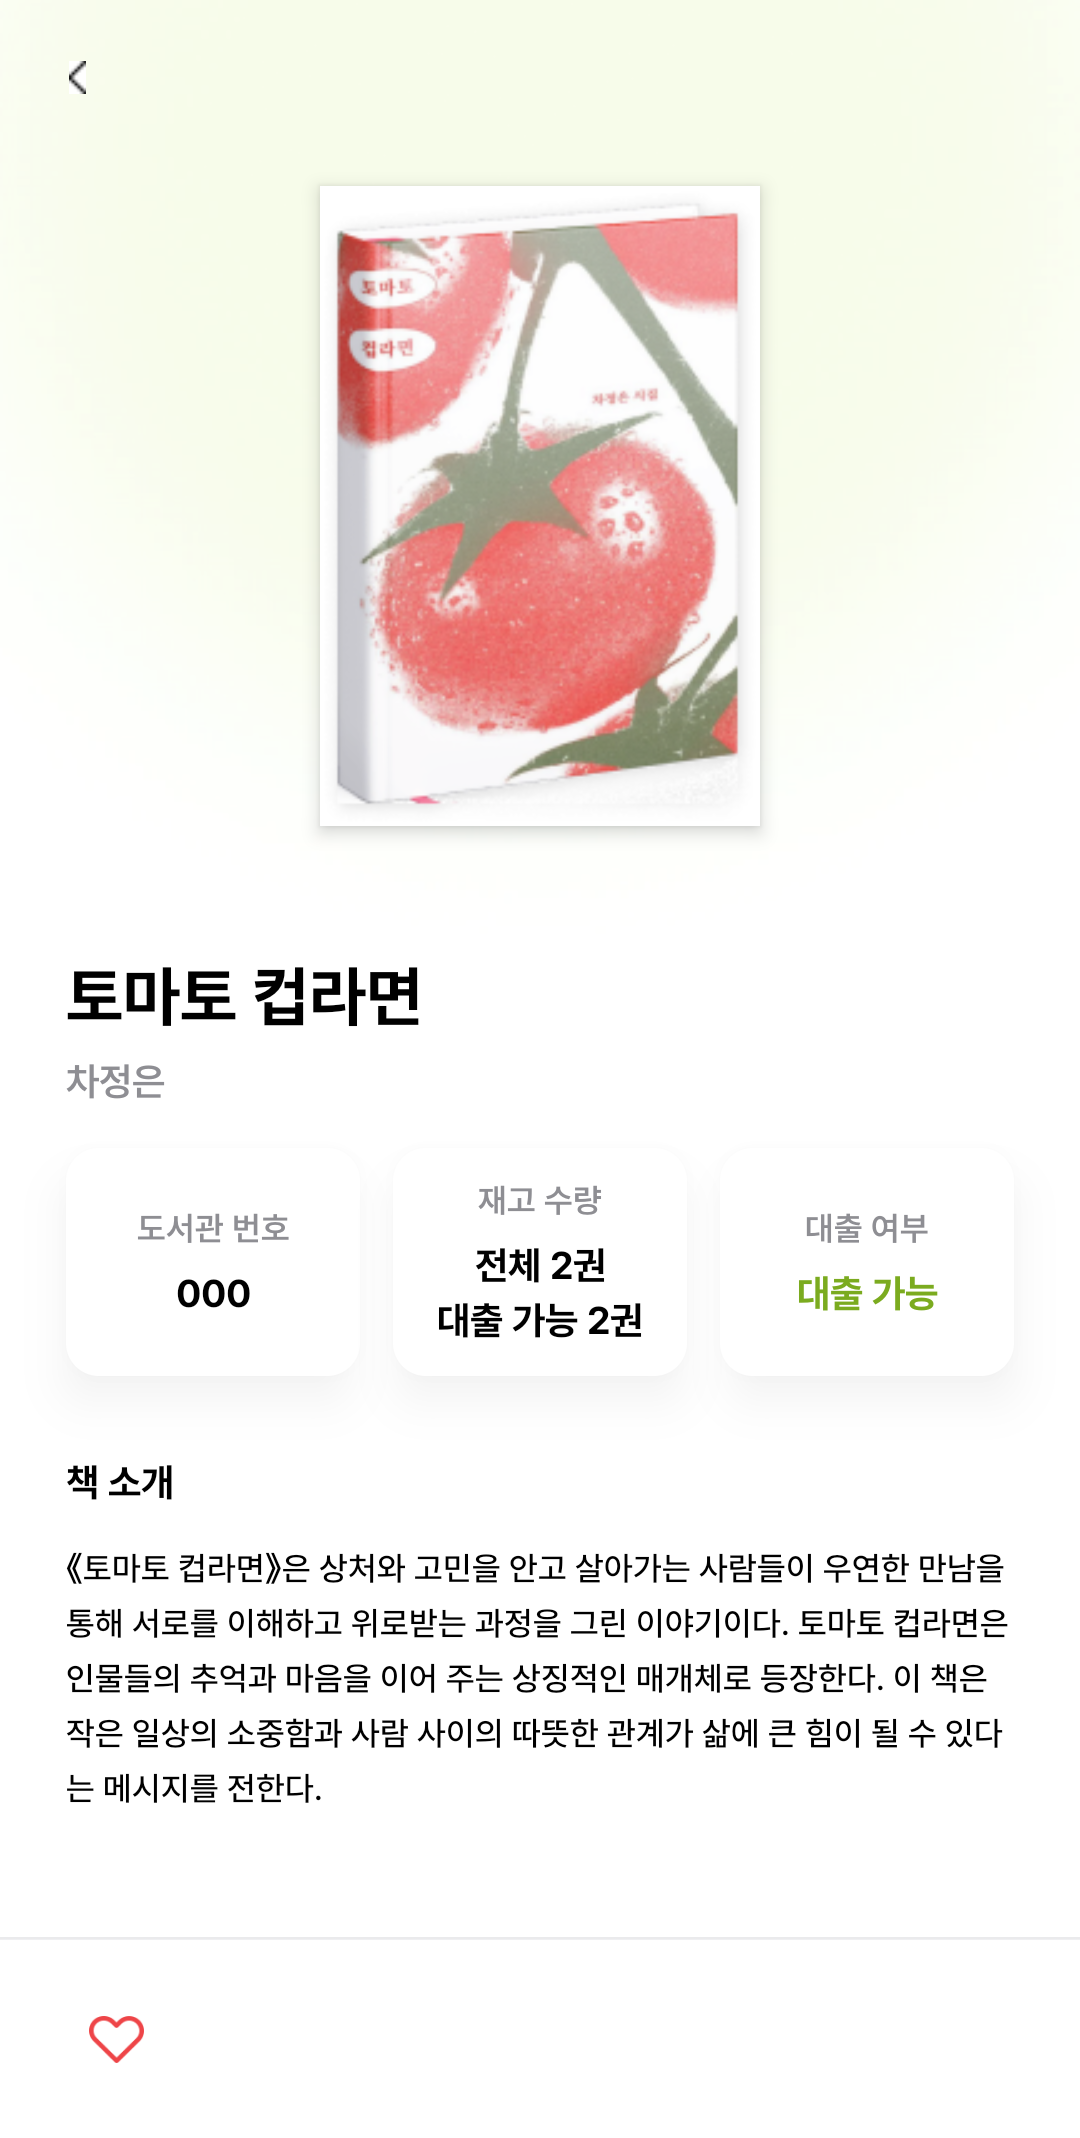
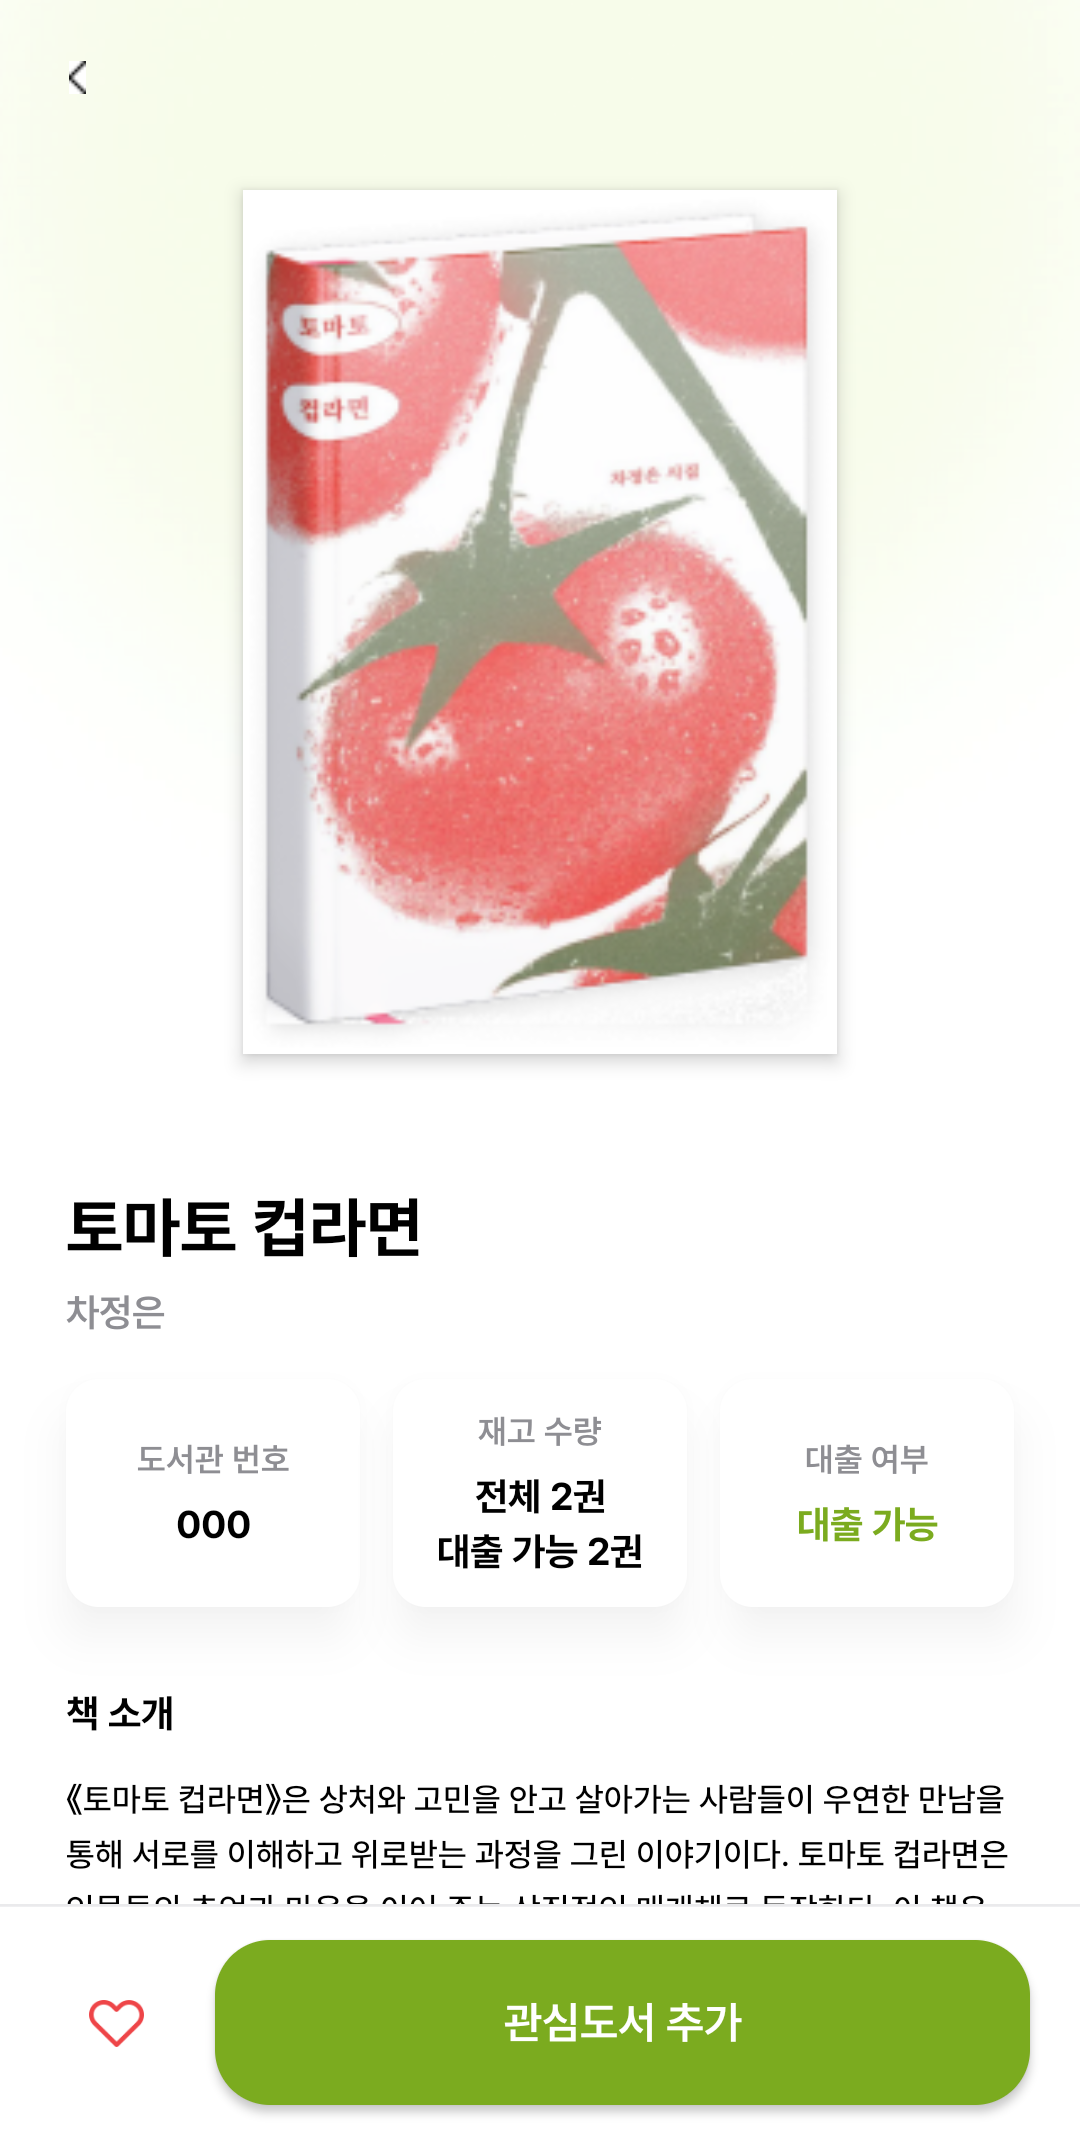
fix: [#144] 하트 옆 관심도서 추가·제외 버튼 연결

diff --git a/app/src/androidTest/java/com/teamnative/bookon/feature/book/presentation/detail/BookOnBookDetailVisualTest.kt b/app/src/androidTest/java/com/teamnative/bookon/feature/book/presentation/detail/BookOnBookDetailVisualTest.kt
@@ -9,6 +9,7 @@ import androidx.compose.runtime.mutableStateOf
 import androidx.compose.ui.Modifier
 import androidx.compose.ui.graphics.asAndroidBitmap
 import androidx.compose.ui.platform.LocalDensity
+import androidx.compose.ui.test.assertTextEquals
 import androidx.compose.ui.test.assertIsDisplayed
 import androidx.compose.ui.test.assertIsEnabled
 import androidx.compose.ui.test.assertIsNotEnabled
@@ -50,11 +51,14 @@ class BookOnBookDetailVisualTest {
         compose.onNodeWithTag("book_detail_loan").assertDoesNotExist()
         val coverBounds = compose.onNodeWithTag("book_detail_cover").fetchSemanticsNode().boundsInRoot
         assertEquals(2f / 3f, coverBounds.width / coverBounds.height, 0.01f)
+        compose.onNodeWithTag("book_detail_favorite_button").assertIsDisplayed().assertTextEquals("관심도서 추가")
+        val buttonBounds = compose.onNodeWithTag("book_detail_favorite_button").fetchSemanticsNode().boundsInRoot
         val actionBounds = compose.onNodeWithTag("book_detail_favorite").fetchSemanticsNode().boundsInRoot
         saveScreenshot("available")
         compose.onNodeWithTag("book_detail_content").performScrollToNode(hasText("책 소개"))
         compose.onNodeWithText("책 소개").assertIsDisplayed()
         compose.onNodeWithTag("book_detail_favorite").assertIsDisplayed()
+        assertEquals(buttonBounds, compose.onNodeWithTag("book_detail_favorite_button").fetchSemanticsNode().boundsInRoot)
         assertEquals(actionBounds, compose.onNodeWithTag("book_detail_favorite").fetchSemanticsNode().boundsInRoot)
     }
 
@@ -80,6 +84,8 @@ class BookOnBookDetailVisualTest {
         }
         compose.onNodeWithContentDescription("관심 도서에서 삭제").assertIsDisplayed().performClick()
         compose.runOnIdle { assertEquals(BookOnBookDetailScreenEvent.FavoriteClicked, event) }
+        compose.onNodeWithTag("book_detail_favorite_button").assertTextEquals("관심도서 제외").performClick()
+        compose.runOnIdle { assertEquals(BookOnBookDetailScreenEvent.FavoriteClicked, event) }
         saveScreenshot("favorite")
     }
 
@@ -87,14 +93,64 @@ class BookOnBookDetailVisualTest {
     fun pendingMutationCannotBeSubmitted() {
         render(content().copy(isFavoriteSubmitting = true))
         compose.onNodeWithTag("book_detail_favorite").assertIsNotEnabled()
+        compose.onNodeWithTag("book_detail_favorite_button").assertIsNotEnabled()
         compose.onNodeWithTag("book_detail_loan").assertDoesNotExist()
+    }
+
+    @Test
+    fun refreshDisablesBothFavoriteControls() {
+        compose.setContent {
+            BookOnTheme {
+                BookOnBookDetailScreen(
+                    state = BookOnBookDetailState(
+                        content = content(),
+                        isInitialLoading = false,
+                        isRefreshing = true,
+                    ),
+                    onEvent = {},
+                )
+            }
+        }
+        compose.onNodeWithTag("book_detail_favorite").assertIsNotEnabled()
+        compose.onNodeWithTag("book_detail_favorite_button").assertIsNotEnabled()
+    }
+
+    @Test
+    fun bothControlsReflectTheSameFavoriteState() {
+        val detailContent = mutableStateOf(content())
+        var favoriteClicks = 0
+        compose.setContent {
+            BookOnTheme {
+                BookOnBookDetailScreen(
+                    state = BookOnBookDetailState(content = detailContent.value, isInitialLoading = false),
+                    onEvent = { screenEvent ->
+                        if (screenEvent == BookOnBookDetailScreenEvent.FavoriteClicked) {
+                            favoriteClicks++
+                        }
+                    },
+                )
+            }
+        }
+        compose.onNodeWithTag("book_detail_favorite_button").assertTextEquals("관심도서 추가").performClick()
+        compose.runOnIdle {
+            assertEquals(1, favoriteClicks)
+            detailContent.value = detailContent.value.copy(isFavorite = true)
+        }
+        compose.onNodeWithContentDescription("관심 도서에서 삭제").assertIsDisplayed().performClick()
+        compose.onNodeWithTag("book_detail_favorite_button").assertTextEquals("관심도서 제외")
+        compose.runOnIdle {
+            assertEquals(2, favoriteClicks)
+            detailContent.value = detailContent.value.copy(isFavorite = false)
+        }
+        compose.onNodeWithContentDescription("관심 도서로 추가").assertIsDisplayed()
+        compose.onNodeWithTag("book_detail_favorite_button").assertTextEquals("관심도서 추가")
     }
 
     @Test
     fun missingDataAndLargeFontOnNarrowDarkScreenRemainReadable() {
         compose.setContent {
             val density = LocalDensity.current.density
-            CompositionLocalProvider(LocalDensity provides Density(density, 1.6f)) {
+            CompositionLocalProvider(LocalDensity provides Density(density, 2f)) {
                 BookOnTheme(themeMode = BookOnThemeMode.DARK) {
                     Box(modifier = Modifier.width(320.dp).fillMaxHeight()) {
                         BookOnBookDetailScreen(
@@ -118,6 +174,10 @@ class BookOnBookDetailVisualTest {
         compose.onNodeWithTag("book_detail_loan").assertDoesNotExist()
         compose.onNodeWithTag("book_detail_content").performScrollToNode(hasText("책 소개"))
         compose.onNodeWithText("책 소개가 없습니다.").assertIsDisplayed()
+        compose.onNodeWithTag("book_detail_favorite_button").assertIsDisplayed().assertTextEquals("관심도서 추가")
+        val heart = compose.onNodeWithTag("book_detail_favorite").fetchSemanticsNode().boundsInRoot
+        val button = compose.onNodeWithTag("book_detail_favorite_button").fetchSemanticsNode().boundsInRoot
+        assertTrue(heart.right <= button.left)
         saveScreenshot("dark-large-font")
     }
 

diff --git a/app/src/main/java/com/teamnative/bookon/feature/book/presentation/detail/view/component/BookOnBookDetailActions.kt b/app/src/main/java/com/teamnative/bookon/feature/book/presentation/detail/view/component/BookOnBookDetailActions.kt
@@ -2,6 +2,10 @@ package com.teamnative.bookon.feature.book.presentation.detail.view.component
 
 import androidx.compose.foundation.Image
 import androidx.compose.foundation.background
+import androidx.compose.foundation.layout.Arrangement
+import androidx.compose.foundation.layout.heightIn
+import androidx.compose.foundation.shape.RoundedCornerShape
+import androidx.compose.ui.Alignment
 import androidx.compose.foundation.layout.Column
 import androidx.compose.foundation.layout.Row
 import androidx.compose.foundation.layout.fillMaxWidth
@@ -24,6 +28,8 @@ import com.teamnative.bookon.R
 import com.teamnative.bookon.core.designsystem.theme.AppComponentSize
 import com.teamnative.bookon.core.designsystem.theme.AppRadius
 import com.teamnative.bookon.core.designsystem.theme.AppSpacing
+import com.teamnative.bookon.core.designsystem.theme.bookOnTypography
+import com.teamnative.bookon.core.ui.component.button.BookOnPrimaryButton
 import com.teamnative.bookon.feature.book.presentation.detail.viewmodel.BookOnBookDetailScreenUiState
 
 @Composable
@@ -51,6 +57,8 @@ fun BookOnBookDetailActions(
                     horizontal = AppSpacing.BookDetailFavoriteHorizontal,
                     vertical = AppSpacing.Item,
                 ),
+            horizontalArrangement = Arrangement.spacedBy(AppSpacing.Item),
+            verticalAlignment = Alignment.CenterVertically,
         ) {
             IconToggleButton(
                 checked = uiState.isFavorite,
@@ -89,6 +97,26 @@ fun BookOnBookDetailActions(
                     )
                 }
             }
+            BookOnPrimaryButton(
+                text = stringResource(
+                    if (uiState.isFavorite) {
+                        R.string.book_detail_favorite_remove
+                    } else {
+                        R.string.book_detail_favorite_add
+                    },
+                ),
+                onClick = onFavoriteClick,
+                modifier = Modifier
+                    .weight(1f)
+                    .heightIn(min = AppComponentSize.BookDetailActionMinHeight)
+                    .testTag("book_detail_favorite_button"),
+                enabled = !isPending,
+                loading = uiState.isFavoriteSubmitting,
+                containerColor = MaterialTheme.colorScheme.secondary,
+                shape = RoundedCornerShape(AppRadius.LargeCard),
+                textStyle = bookOnTypography.bookDetailAction,
+                fixedHeight = null,
+            )
         }
     }
 }

diff --git a/app/src/test/java/com/teamnative/bookon/feature/book/presentation/detail/BookOnBookDetailViewModelTest.kt b/app/src/test/java/com/teamnative/bookon/feature/book/presentation/detail/BookOnBookDetailViewModelTest.kt
@@ -95,6 +95,28 @@ class BookOnBookDetailViewModelTest {
     }
 
     @Test
+    fun `관심 등록과 제외는 서버 상태를 반영하고 제외 실패에는 등록을 유지한다`() = runTest {
+        val repository = DetailRepository()
+        val viewModel = createViewModel(repository)
+        viewModel.load(1)
+        advanceUntilIdle()
+        viewModel.toggleFavorite()
+        advanceUntilIdle()
+        assertTrue(viewModel.state.value.content!!.isFavorite)
+        repository.failMutation = true
+        viewModel.toggleFavorite()
+        advanceUntilIdle()
+        assertTrue(viewModel.state.value.content!!.isFavorite)
+        assertFalse(viewModel.state.value.content!!.isFavoriteSubmitting)
+        repository.failMutation = false
+        viewModel.toggleFavorite()
+        advanceUntilIdle()
+        assertFalse(viewModel.state.value.content!!.isFavorite)
+        assertFalse(viewModel.state.value.content!!.isFavoriteSubmitting)
+        assertEquals(3, repository.favoriteCalls)
+    }
+
+    @Test
     fun `다른 책 진입은 이전 조회를 취소하고 새 책만 표시한다`() = runTest {
         val repository = DetailRepository()
         repository.detailGate = CompletableDeferred()

diff --git a/docs/testing/book-detail-verification.md b/docs/testing/book-detail-verification.md
@@ -1,14 +1,16 @@
 # 책 상세 화면 디자인·동작 검증
 
-## 표지 크기 후속 변경
+## 관심 도서 버튼 후속 변경
 
-사용자 요청으로 상세 표지 최대 너비를 160dp에서 216dp로 35% 확대했다. 2:3 표지 기준 높이는 240dp에서 324dp가 되며 실제 이미지 비율과 작은 화면의 너비 제한은 유지한다. 이 한 줄 토큰 변경은 root 및 두 게시 작업트리에서 Kotlin 컴파일로 검증했다. 아래 캡처와 이전 UI 테스트는 확대 전 화면의 증거이며 이번 크기로 새 기기 캡처를 촬영하지 않았다.
+사용자 요청으로 하트 오른쪽에 기존 secondary 초록색 텍스트 버튼을 추가했다. 서버 상태에 따라 `관심도서 추가` / `관심도서 제외`를 표시하며 하트와 동일한 callback을 사용한다. 요청 중 또는 재조회 중 두 컨트롤을 함께 비활성화하고, 제출 시 로딩을 표시한다. 버튼은 가변 높이를 사용해 200% 글꼴에서도 텍스트를 표시한다. 상세 대출 기능은 추가하지 않았다.
+
+표지 최대 너비는 216dp(+35%)이며 2:3 표지는 324dp 높이다. 아래 캡처는 이 크기와 최종 관심 버튼을 포함해 API 34/API 37에서 새로 촬영했다.
 
 ## 최종 승인 동작
 
 - [대출 가능](https://www.figma.com/design/nJLeurKROi9jA3Pul9cdAK/Bookon?node-id=164-214), [대출 불가](https://www.figma.com/design/nJLeurKROi9jA3Pul9cdAK/Bookon?node-id=164-403), [관심 도서](https://www.figma.com/design/nJLeurKROi9jA3Pul9cdAK/Bookon?node-id=166-531) 실제 디자인 컨텍스트를 기준으로 구현했다.
 - 배경은 시스템 상태 영역까지 그린다. 상단 콘텐츠와 48dp 뒤로가기/관심 터치 영역은 시스템 inset을 유지한다.
-- 하단 고정 관심·대출 버튼을 제거하고 원본 빈/채운 하트로 관심 등록·해제를 표시한다. 이 변경은 상세 화면에 한정하며 다른 화면의 대출 기능과 공유 API/Domain은 유지한다.
+- 상세 대출 버튼을 제거하고 원본 빈/채운 하트와 초록색 등록/제외 텍스트 버튼으로 관심 상태를 표시한다. 이 변경은 상세 화면에 한정하며 다른 화면의 대출 기능과 공유 API/Domain은 유지한다.
 - 도서 ID 조회로 표지·제목·저자·도서관 번호·전체/가용 재고·대출 가능 여부·책 소개를 표시한다. 정보 누락은 --로 표시한다.
 - 표지 그림자는 고정 박스가 아니라 실제 표시된 이미지 경계에 맞춘다. 가로 표지·누락 URL·실패·URL 변경을 처리한다.
 
@@ -20,12 +22,12 @@
 
 ## 검증
 
-- root 단위 테스트 48개 및 컴파일·Lint 성공. 상세 UI 17개씩 API 34/API 37 성공(34개).
-- #151 격리 작업트리 단위 테스트 53개·컴파일·Lint·계측 Kotlin 컴파일 성공.
-- #161 통합 작업트리 단위 테스트 117개·컴파일·Lint·계측 APK 성공. 최종 상세 패키지 계측 19개씩 신규 격리 API 34/API 37 모두 성공(38개, 실패 0).
+- root 단위 테스트 49개 및 컴파일·Lint 성공. 상세 UI 19개씩 API 34/API 37 성공(38개).
+- #151 격리 작업트리 단위 테스트 54개·컴파일·Lint·계측 Kotlin 컴파일 성공.
+- #161 통합 작업트리 단위 테스트 118개·컴파일·Lint·계측 APK 성공. 이전 통합 상세 패키지 계측 19개씩 신규 격리 API 34/API 37 모두 성공(38개, 실패 0). 이번 버튼 UI는 root의 최종 상세 19개씩 성공 결과와 구분한다.
 - 조회 실패·기존 콘텐츠 보존·재시도·관심 변경 실패·중복 클릭·요청 중 재조회 보호·오래된 응답을 fake Repository로 검증했다.
 - 홈 callback과 검색·신간·도서실 실제 Route 복귀의 검색어·목록·스크롤·탭을 검증했다.
-- 실제 MainActivity에서 UiAutomation 물리 화면 캡처로 시스템 상태 영역 배경, 콘텐츠 inset, 하트 터치 영역을 검증했다. Window APPEARANCE_LIGHT_STATUS_BARS 및 시스템 UI idle을 함께 확인했다. 정상 글꼴의 신규 격리 AVD API 34/API 37에서 root 17개씩 모두 통과했다.
+- 실제 MainActivity에서 UiAutomation 물리 화면 캡처로 시스템 상태 영역 배경, 콘텐츠 inset, 하트 터치 영역을 검증했다. Window APPEARANCE_LIGHT_STATUS_BARS 및 시스템 UI idle을 함께 확인했다. 신규 격리 AVD API 34/API 37에서 root 19개씩 모두 통과했다. 정상 글꼴 물리 캡처와 200% 글꼴의 다크 화면을 확인했다.
 
 ## 제한
 
